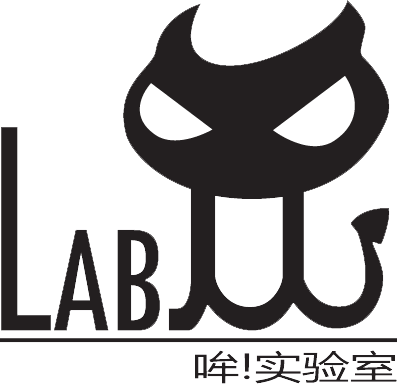
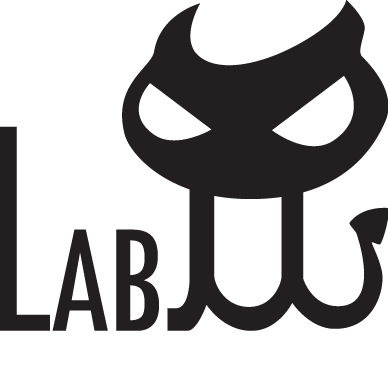
完善了整体的布局，将左边分logo，info和goal部分

diff --git a/app/index.html b/app/index.html
@@ -24,15 +24,38 @@
     <![endif]-->
 
 
-    <div class="container-fluid">
+    <div class="container">
       
       <div class="row">
-        <div class="col-lg-7 logo">
-          <img style="position:relative;width:100%" src="images/labμ.png">
+
+        <div class="col-lg-7">
+
+          <div class="row">
+
+            <div class="col-lg-7 logo">
+              <img style="position:relative;width:100%" src="images/labμ.png">
+            </div>
+
+            <div class="col-lg-5 info">
+              <h1>Team information</h1>
+            </div>
+
+          </div>
+
+          <div class="row">
+
+            <div class="col-lg-12 goal">
+              <h1>Our Goal</h1>
+            </div>
+
+          </div>
+
         </div>
-        <div class="col-lg-5 info">
-          <h1>Information</h1>
+
+        <div class="col-lg-5 project">
+          <h1>Project information</h1>
         </div>
+
       </div>
 
       <div class="row">
@@ -48,12 +71,15 @@
         <div class="col-lg-4 join">
           <a href="joinus.html" class="btn"><h1>Join us</h1></a>
         </div>
+
         <div class="col-lg-4 blog">
           <a href="blog.html" class="btn"><h1>Blog</h1></a>
         </div>
+
         <div class="col-lg-4 member">
           <a href="members.html" class="btn"><h1>Members</h1></a>
         </div>
+
       </div>
 
       <div class="footer">

diff --git a/app/styles/index.css b/app/styles/index.css
@@ -6,6 +6,14 @@
 	text-align: center;
 }
 
+.goal {
+	text-align: center;
+}
+
+.project {
+	text-align: center;
+}
+
 .join {
 	text-align: center;
 }
@@ -15,5 +23,9 @@
 }
 
 .member {
+	text-align: center;
+}
+
+.footer {
 	text-align: center;
 }
